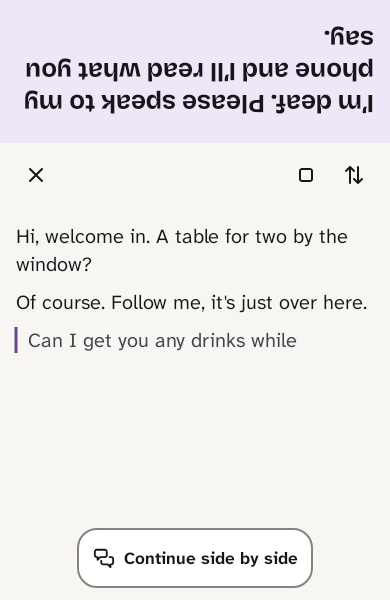
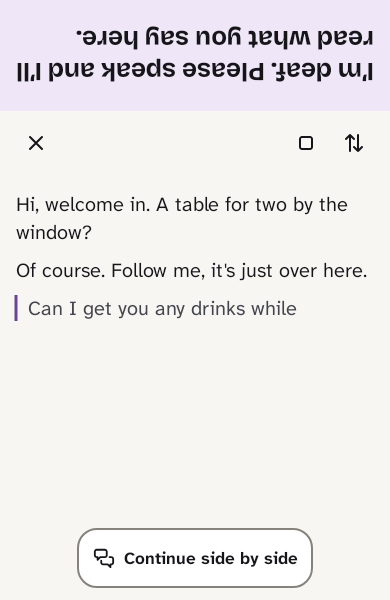
Say device rather than phone on the website (#87)
Deaftly runs on tablets too. Pages no longer assume a phone, template
quotes match the app's new wording, and the Listen for me, Settings and
Side by side screenshots are refreshed from the app.

diff --git a/test/statements.test.js b/test/statements.test.js
@@ -50,7 +50,7 @@ test("the privacy page names the controller and how to contact them", async () =
 test("the privacy page covers the app, Android backup, the site and the feedback form", async () => {
   const body = await text("/privacy/");
   for (const phrase of [
-    /on your phone/i,
+    /on your device/i,
     /Android backup/i,
     /templates/i,
     /chat/i,

diff --git a/views/privacy/index.md b/views/privacy/index.md
@@ -1,7 +1,7 @@
 ---
 layout: base.njk
 title: Privacy
-description: What the Deaftly app keeps on your phone, what Android backup copies, and what this website and its feedback form collect, why, and for how long.
+description: What the Deaftly app keeps on your device, what Android backup copies, and what this website and its feedback form collect, why, and for how long.
 ---
 
 <div class="wrap section section--tight prose">
@@ -12,7 +12,7 @@ This page explains what the Deaftly app keeps, what this website collects, why, 
 
 ## The app
 
-Deaftly keeps what you put into it on your phone. We, the people who make Deaftly, don't receive any of it.
+Deaftly keeps what you put into it on your device. We, the people who make Deaftly, don't receive any of it.
 
 <div class="table-scroll" role="region" aria-label="What the app keeps" tabindex="0">
 
@@ -30,7 +30,7 @@ Deaftly keeps what you put into it on your phone. We, the people who make Deaftl
 
 ### Android backup
 
-If you've turned on Android backup, your phone can copy your templates, settings and kept chats to your backup and restore them on a new phone. That's a service you choose and control in your phone's settings. Deaftly doesn't set it up or read it, and we can't see it. Kept chats can include anything you and the other person wrote, such as health details.
+If you've turned on Android backup, your device can copy your templates, settings and kept chats to your backup and restore them on a new device. That's a service you choose and control in your device's settings. Deaftly doesn't set it up or read it, and we can't see it. Kept chats can include anything you and the other person wrote, such as health details.
 
 ### Camera
 
@@ -69,7 +69,7 @@ Deaftly is made by One Lone Raven, which is responsible for your data under UK d
 
 ## Your rights
 
-The app keeps your data on your phone, so you can delete it yourself at any time by deleting your templates or the app. This website only collects personal data if you send feedback. To see, correct or delete it, email support@deaftly.com.
+The app keeps your data on your device, so you can delete it yourself at any time by deleting your templates or the app. This website only collects personal data if you send feedback. To see, correct or delete it, email support@deaftly.com.
 
 ## Changes
 

diff --git a/views/situations/pharmacy.md b/views/situations/pharmacy.md
@@ -11,13 +11,13 @@ At the pharmacy counter there can be a queue, a screen between you and the pharm
 
 Use the **Pharmacy** template. Fill in who it's for, then show it at the counter:
 
-> Hi! I'm deaf. I'm collecting a prescription for **Layla Hassan**. If you need to reply, please **type on my phone**.
+> Hi! I'm deaf. I'm collecting a prescription for **Layla Hassan**. If you need to reply, please **type here**.
 
 ## Getting medicine names right
 
 Medicine names are long and easy to get wrong. Make your own template with a gap filled by the **camera**, then point it at the label, box or letter and tap the name:
 
-> Can you tell me how to take **flucloxacillin**? To reply, please **type on my phone**.
+> Can you tell me how to take **flucloxacillin**? To reply, please **type here**.
 
 <figure class="situation__screen">
 <img src="{{ "/screenshots/pharmacy-camera.webp" | asset }}" width="390" height="600" loading="lazy" alt="The camera pointed at a pharmacy label for Layla Hassan, with the line Flucloxacillin 500mg Capsules selected and shown in the Selected text box.">
@@ -26,4 +26,4 @@ Medicine names are long and easy to get wrong. Make your own template with a gap
 
 ## Asking questions
 
-If the pharmacist needs to ask you something, **Side by side** lets you take turns typing on one phone. If you'd rather keep hold of your phone, **Face to face** turns your words towards them as you type.
+If the pharmacist needs to ask you something, **Side by side** lets you take turns typing on one device. If you'd rather keep hold of your device, **Face to face** turns your words towards them as you type.

diff --git a/views/situations/doctors.md b/views/situations/doctors.md
@@ -11,10 +11,10 @@ Communicating at the doctor's as a deaf person can go wrong before the appointme
 
 Use the **At the doctor's** template. Fill in your name, your appointment time, who it's with and how you'll communicate, then show it at reception:
 
-> Hi! I'm deaf. My name is **Marcus Campbell**. I have an appointment at **10:30** with **Dr Shah**. I prefer to communicate by **typing on my phone**. If you need to reply, please **write it down** or **type on my phone**.
+> Hi! I'm deaf. My name is **Marcus Campbell**. I have an appointment at **10:30** with **Dr Shah**. I prefer to communicate by **typing**. If you need to reply, please **write it down** or **type here**.
 
 ## During the appointment
 
-**Side by side** lets you and the doctor take turns typing on one phone. Each of you gets your own colour, laid out like a script, so it's easy to look back at what was said. Clear prompts show the doctor where to type.
+**Side by side** lets you and the doctor take turns typing on one device. Each of you gets your own colour, laid out like a script, so it's easy to look back at what was said. Clear prompts show the doctor where to type.
 
-If you'd rather keep hold of your phone, **Face to face** turns your words towards them as you type.
+If you'd rather keep hold of your device, **Face to face** turns your words towards them as you type.

diff --git a/views/situations/ordering-food.md b/views/situations/ordering-food.md
@@ -11,7 +11,7 @@ Ordering food as a deaf person can mean pointing at the menu and hoping, or a qu
 
 Use the **Order food** template. Tap the dish, then point the **camera** at the menu and tap the lines you want. You can add more than one dish, and Deaftly joins them for you:
 
-> Hi! I'm deaf. Could I have **Pasta arrabbiata** and **Garlic bread** please? If you have a question, please type it on my phone.
+> Hi! I'm deaf. Could I have **Pasta arrabbiata** and **Garlic bread** please? If you have a question, please type it here.
 
 Freeze the picture to make picking easier, and turn on the torch in a dim restaurant.
 
@@ -21,7 +21,7 @@ The **Food allergy** template says what you're allergic to and asks whether they
 
 ## When they ask a question
 
-Questions like “spicy or mild?” or “eat in or take away?” are where it usually breaks down. Tap **Continue as chat** and pass the phone over. **Side by side** shows them where to type, and you can reply straight away.
+Questions like “spicy or mild?” or “eat in or take away?” are where it usually breaks down. Tap **Continue as chat** and pass it over. **Side by side** shows them where to type, and you can reply straight away.
 
 ## Paying
 

diff --git a/views/situations/travel.md b/views/situations/travel.md
@@ -1,6 +1,6 @@
 ---
 title: Travelling by train as a deaf person
-description: "Travelling by train as a deaf person, made simpler: buy tickets, ask about platforms and delays, and follow the answer with Deaftly on your phone."
+description: "Travelling by train as a deaf person, made simpler: buy tickets, ask about platforms and delays, and follow the answer with Deaftly on your phone or tablet."
 ---
 
 # Travel
@@ -11,7 +11,7 @@ Announcements, ticket desks and help points are built around hearing. When somet
 
 The **Buy a ticket** template asks for a ticket to wherever you're going. Type the station, then show it:
 
-> Hi! I'm deaf. I'd like a ticket to **Leeds**, please. If you need to reply, please **type on my phone**.
+> Hi! I'm deaf. I'd like a ticket to **Leeds**, please. If you need to reply, please **type here**.
 
 ## Platforms, delays and changes
 

diff --git a/views/situations/shops.md b/views/situations/shops.md
@@ -19,11 +19,11 @@ The **Paying** template asks whether you can pay by card and to see the total:
 
 ## Explaining you're deaf
 
-When someone starts talking and you've missed it, the **Explain I'm deaf** template tells them, and asks them to type on your phone instead.
+When someone starts talking and you've missed it, the **Explain I'm deaf** template tells them, and asks them to type on your device instead.
 
-## Keeping hold of your phone
+## Keeping hold of your device
 
-With **Face to face**, your words face the other person as you type and you never have to hand your phone over. That's useful at a busy counter.
+With **Face to face**, your words face the other person as you type and you never have to hand your device over. That's useful at a busy counter.
 
 ## Tips
 
